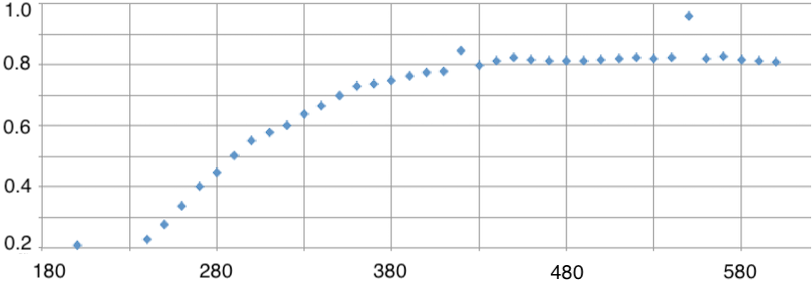
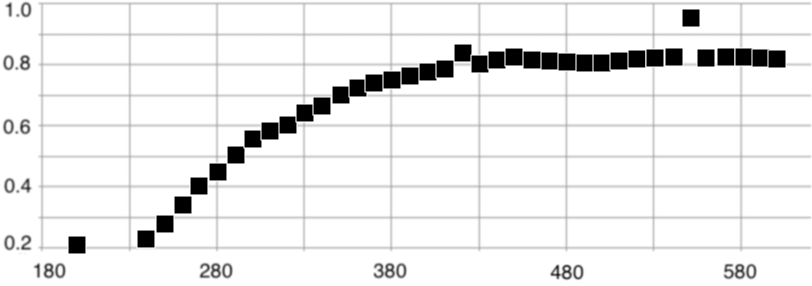
better pics, pmt coating section corrections

diff --git a/ltcc/pmts.tex b/ltcc/pmts.tex
@@ -1,10 +1,10 @@
-\subsection{Photo-multiplier surface coating}
+\subsection{PMT surface coating}
 
 The PMTs used in the LTCC are Photonis XP4500Bs \cite{Photonis:2007ta}.
 Their borosilicate windows can be used to detect wavelengths as low as approximately
 300 nm. This is the most limiting factor of enhanced quantum efficiency (QE) in the UV region, where most of the Cherenkov
 light is emitted (see eq.~\ref{eq:cerenkov}), given that the $C_4F_{10}$ gas is transparent down to
-wavelengths of 180 nm, and the mirrors and WCs reflectivity is non-zero
+wavelengths of 180 nm, and the mirrors and WC reflectivity is non-zero
 even for wavelengths below 200 nm.
 While quartz windows maximize the UV-sensitivity of the PMT, they are difficult and expensive to produce.
 A wavelength shifter (WLS) deposited on the face of a borosilicate or UV glass
@@ -13,7 +13,7 @@ detector by converting UV photons with a wavelength below 300 nm into two
 isotropically emitted photons with longer wavelengths.
 
 The projected QE gained by a deposition of p-terphenyl (PT) on the XP4500Bs
-PMT \cite{Koczon:1457653} is shown in \F{pmtQuantumEfficiencyGainAndExample} (top).
+PMT \cite{Koczon:1457653} is shown in \F{pmtQuantumEfficiencyGainAndExample}.
 The gain at shorter wavelengths near 200 nm, where most of the Cherenkov light
 detectable by the LTCC optics is concentrated, is more than a factor of 3.
 
@@ -21,18 +21,16 @@ detectable by the LTCC optics is concentrated, is more than a factor of 3.
 \begin{figure}
 	\centering
 	\includegraphics[width=0.99\columnwidth, height=0.65\columnwidth]{img/pmtQuantumEfficiencyGain.png}
-	\includegraphics[width=0.95\columnwidth, height=0.55\columnwidth]{img/ptExample.png}
-	\caption{Top: The typical QE for a Photonis XP4500B PMT (solid black line), compared to the projected QE after application
-				of a PT wave-length shifter at four different material loads (dashed lines), as a function of wavelength.
-            Bottom: A test glass after coating. Notice that  110 $\mu$ g/cm$^2$ (894 nm) of PT provides an
-            almost transparent coating.}
+%	\includegraphics[width=0.95\columnwidth, height=0.55\columnwidth]{img/ptExample.png}
+	\caption{The typical QE for a Photonis XP4500B PMT (solid black line), compared to the projected QE after application
+			 of a PT wave-length shifter at four different material loads (dashed lines), as a function of wavelength}
 	\label{fig:pmtQuantumEfficiencyGainAndExample}
 \end{figure}
 
 Several tests were performed in collaboration with the Temple University Physics Department using the equipment schematics
-shown in \F{pmtTestingSetupAndptQEResults} (top). The setup used a monochromator with a precision of 0.35 nm and two PMTs (one for the measurement,
-one for the   reference calibration). The PMTs were switched to confirm the stability of the results. Each PMT was measured
-while coated and then again after the coating had been removed using acetone and isopropanol.
+shown in \F{pmtTestingSetupAndptQEResults} (top). The setup used a monochromator with a precision of 0.35 nm and two PMTs
+(one for the measurement, one for the   reference calibration). The PMTs were switched to confirm the stability of the results.
+Each PMT was measured while coated and then again after the coating had been removed using acetone and isopropanol.
 The observed photon rate was read out by a scaler.
 
 \begin{figure}
@@ -40,7 +38,7 @@ The observed photon rate was read out by a scaler.
 	\includegraphics[width=0.95\columnwidth, height=0.65\columnwidth]{img/pmtTestingSetup.png}
 	\includegraphics[width=0.99\columnwidth, height=0.65\columnwidth]{img/ptQEResults.png}
 	\caption{Top: Monochromator setup used for the gain measurement. Bottom: Results from the monochromator measurements (red circles), compared to the
-				nominal prediction for a PT material load of $110\,\mu g/cm^2$ (dashed line).}
+				nominal prediction for a PT material load of $110\,\mu$ g/cm$^2$ (dashed line).}
 	\label{fig:pmtTestingSetupAndptQEResults}
 \end{figure}
 
@@ -51,12 +49,8 @@ prediction for a perfectly saturated coating.
 
 Based on these results, 200 PMTs were treated \cite{Joosten:2016lcl} with an optimal material load of 110 $\mu$g/cm$^2$,
 corresponding to a PT thickness of 894 nm. This corresponded to an overall
-increase of the PMT response to Cherenkov light of about 40\%.
-
-In \F{pmtQuantumEfficiencyGainAndExample} (bottom) an example of deposition of a test glass is shown. Notice that the coating is almost
-transparent in the visible light spectrum. At the bottom of the figure the actual setup used at Temple
-University is shown.
-
+increase of the PMT response to Cherenkov light of about 40\%. The 110 $\mu$ g/cm$^2$ (894 nm) of PT provides an
+almost transparent coating to the visible light spectrum.
 
 
 
